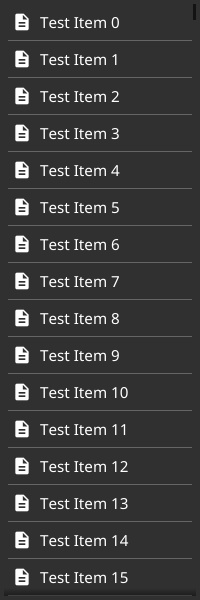
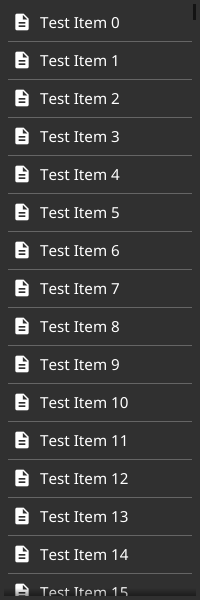
Fix list to use dividers the same way tree/table do.

Changed region(s): [[0.03, 0.06, 0.96, 1.0]]

diff --git a/widget/list.go b/widget/list.go
@@ -13,6 +13,8 @@ import (
 // ListItemID uniquely identifies an item within a list.
 type ListItemID = int
 
+const listDividerHeight = 1
+
 // Declare conformity with Widget interface.
 var _ fyne.Widget = (*List)(nil)
 
@@ -90,7 +92,7 @@ func (l *List) Select(id ListItemID) {
 	if l.scroller == nil {
 		return
 	}
-	y := id * l.itemMin.Height
+	y := (id * l.itemMin.Height) + (id * listDividerHeight)
 	if y < l.scroller.Offset.Y {
 		l.scroller.Offset.Y = y
 	} else if y+l.itemMin.Height > l.scroller.Offset.Y+l.scroller.Size().Height {
@@ -179,7 +181,7 @@ func (l *listRenderer) Layout(size fyne.Size) {
 	}
 
 	// Relayout What Is Visible - no scroll change - initial layout or possibly from a resize.
-	l.visibleItemCount = int(math.Ceil(float64(l.scroller.size.Height) / float64(l.list.itemMin.Height)))
+	l.visibleItemCount = int(math.Ceil(float64(l.scroller.size.Height) / float64(l.list.itemMin.Height+listDividerHeight)))
 	if l.visibleItemCount == 0 {
 		return
 	}
@@ -193,8 +195,9 @@ func (l *listRenderer) Layout(size fyne.Size) {
 	for i := len(l.children) + l.firstItemIndex; len(l.children) <= l.visibleItemCount && i < length; i++ {
 		l.appendItem(i)
 	}
-	l.layout.Objects = l.children
-	l.layout.Layout.Layout(l.layout.Objects, l.list.itemMin)
+	l.layout.Layout.(*listLayout).children = l.children
+	l.layout.Layout.Layout(l.children, l.list.itemMin)
+	l.layout.Objects = l.layout.Layout.(*listLayout).getObjects()
 	l.lastItemIndex = l.firstItemIndex + len(l.children) - 1
 
 	i := l.firstItemIndex
@@ -224,8 +227,9 @@ func (l *listRenderer) appendItem(id ListItemID) {
 	item := l.getItem()
 	l.children = append(l.children, item)
 	l.setupListItem(item, id)
-	l.layout.Objects = l.children
-	l.layout.Layout.(*listLayout).appendedItem(l.layout.Objects)
+	l.layout.Layout.(*listLayout).children = l.children
+	l.layout.Layout.(*listLayout).appendedItem(l.children)
+	l.layout.Objects = l.layout.Layout.(*listLayout).getObjects()
 }
 
 func (l *listRenderer) getItem() fyne.CanvasObject {
@@ -244,33 +248,32 @@ func (l *listRenderer) offsetChanged() {
 	if l.previousOffsetY < l.list.offsetY {
 		// Scrolling Down.
 		l.scrollDown(offsetChange)
-		return
-
 	} else if l.previousOffsetY > l.list.offsetY {
 		// Scrolling Up.
 		l.scrollUp(offsetChange)
-		return
 	}
+	l.layout.Layout.(*listLayout).updateDividers()
 }
 
 func (l *listRenderer) prependItem(id ListItemID) {
 	item := l.getItem()
 	l.children = append([]fyne.CanvasObject{item}, l.children...)
 	l.setupListItem(item, id)
-	l.layout.Objects = l.children
-	l.layout.Layout.(*listLayout).prependedItem(l.layout.Objects)
+	l.layout.Layout.(*listLayout).children = l.children
+	l.layout.Layout.(*listLayout).prependedItem(l.children)
+	l.layout.Objects = l.layout.Layout.(*listLayout).getObjects()
 }
 
 func (l *listRenderer) scrollDown(offsetChange int) {
 	itemChange := 0
-	layoutEndY := l.children[len(l.children)-1].Position().Y + l.list.itemMin.Height
+	layoutEndY := l.children[len(l.children)-1].Position().Y + l.list.itemMin.Height + listDividerHeight
 	scrollerEndY := l.scroller.Offset.Y + l.scroller.Size().Height
 	if layoutEndY < scrollerEndY {
-		itemChange = int(math.Ceil(float64(scrollerEndY-layoutEndY) / float64(l.list.itemMin.Height)))
-	} else if offsetChange < l.list.itemMin.Height {
+		itemChange = int(math.Ceil(float64(scrollerEndY-layoutEndY) / float64(l.list.itemMin.Height+listDividerHeight)))
+	} else if offsetChange < l.list.itemMin.Height+listDividerHeight {
 		return
 	} else {
-		itemChange = int(math.Floor(float64(offsetChange) / float64(l.list.itemMin.Height)))
+		itemChange = int(math.Floor(float64(offsetChange) / float64(l.list.itemMin.Height+listDividerHeight)))
 	}
 	l.previousOffsetY = l.list.offsetY
 	length := 0
@@ -293,11 +296,11 @@ func (l *listRenderer) scrollUp(offsetChange int) {
 	itemChange := 0
 	layoutStartY := l.children[0].Position().Y
 	if layoutStartY > l.scroller.Offset.Y {
-		itemChange = int(math.Ceil(float64(layoutStartY-l.scroller.Offset.Y) / float64(l.list.itemMin.Height)))
-	} else if offsetChange < l.list.itemMin.Height {
+		itemChange = int(math.Ceil(float64(layoutStartY-l.scroller.Offset.Y) / float64(l.list.itemMin.Height+listDividerHeight)))
+	} else if offsetChange < l.list.itemMin.Height+listDividerHeight {
 		return
 	} else {
-		itemChange = int(math.Floor(float64(offsetChange) / float64(l.list.itemMin.Height)))
+		itemChange = int(math.Floor(float64(offsetChange) / float64(l.list.itemMin.Height+listDividerHeight)))
 	}
 	l.previousOffsetY = l.list.offsetY
 	for i := 0; i < itemChange && l.firstItemIndex != 0; i++ {
@@ -340,7 +343,6 @@ type listItem struct {
 	onTapped          func()
 	statusIndicator   *canvas.Rectangle
 	child             fyne.CanvasObject
-	divider           *Separator
 	hovered, selected bool
 }
 
@@ -359,9 +361,8 @@ func (li *listItem) CreateRenderer() fyne.WidgetRenderer {
 	li.ExtendBaseWidget(li)
 
 	li.statusIndicator = canvas.NewRectangle(theme.BackgroundColor())
-	li.divider = NewSeparator()
 
-	objects := []fyne.CanvasObject{li.statusIndicator, li.child, li.divider}
+	objects := []fyne.CanvasObject{li.statusIndicator, li.child}
 
 	return &listItemRenderer{widget.NewBaseRenderer(objects), li}
 }
@@ -424,10 +425,6 @@ func (li *listItemRenderer) Layout(size fyne.Size) {
 
 	li.item.child.Move(fyne.NewPos(theme.Padding()*2, theme.Padding()))
 	li.item.child.Resize(fyne.NewSize(size.Width-theme.Padding()*3, size.Height-theme.Padding()*2))
-
-	li.item.divider.Move(fyne.NewPos(theme.Padding(), size.Height-1))
-	s = fyne.NewSize(size.Width-theme.Padding()*2, 1)
-	li.item.divider.Resize(s)
 }
 
 func (li *listItemRenderer) Refresh() {
@@ -446,6 +443,8 @@ var _ fyne.Layout = (*listLayout)(nil)
 
 type listLayout struct {
 	list       *List
+	dividers   []fyne.CanvasObject
+	children   []fyne.CanvasObject
 	layoutEndY int
 }
 
@@ -458,25 +457,32 @@ func (l *listLayout) Layout(objects []fyne.CanvasObject, size fyne.Size) {
 		return
 	}
 	y := 0
-	for _, child := range objects {
+	for _, child := range l.children {
 		child.Move(fyne.NewPos(0, y))
-		y += l.list.itemMin.Height
+		y += l.list.itemMin.Height + listDividerHeight
 		child.Resize(fyne.NewSize(l.list.size.Width, l.list.itemMin.Height))
 	}
 	l.layoutEndY = y
+	l.updateDividers()
 }
 
 func (l *listLayout) MinSize(objects []fyne.CanvasObject) fyne.Size {
 	if f := l.list.Length; f != nil {
 		return fyne.NewSize(l.list.itemMin.Width,
-			l.list.itemMin.Height*f())
+			l.list.itemMin.Height*f()+(f()-1)*listDividerHeight)
 	}
 	return fyne.NewSize(0, 0)
 }
 
+func (l *listLayout) getObjects() []fyne.CanvasObject {
+	objects := l.children
+	objects = append(objects, l.dividers...)
+	return objects
+}
+
 func (l *listLayout) appendedItem(objects []fyne.CanvasObject) {
 	if len(objects) > 1 {
-		objects[len(objects)-1].Move(fyne.NewPos(0, objects[len(objects)-2].Position().Y+l.list.itemMin.Height))
+		objects[len(objects)-1].Move(fyne.NewPos(0, objects[len(objects)-2].Position().Y+l.list.itemMin.Height+listDividerHeight))
 	} else {
 		objects[len(objects)-1].Move(fyne.NewPos(0, 0))
 	}
@@ -486,4 +492,26 @@ func (l *listLayout) appendedItem(objects []fyne.CanvasObject) {
 func (l *listLayout) prependedItem(objects []fyne.CanvasObject) {
 	objects[0].Move(fyne.NewPos(0, objects[1].Position().Y-l.list.itemMin.Height))
 	objects[0].Resize(fyne.NewSize(l.list.size.Width, l.list.itemMin.Height))
+}
+
+func (l *listLayout) updateDividers() {
+	if len(l.children) > 1 {
+		if len(l.dividers) > len(l.children) {
+			l.dividers = l.dividers[:len(l.children)]
+		} else {
+			for i := len(l.dividers); i < len(l.children); i++ {
+				l.dividers = append(l.dividers, NewSeparator())
+			}
+		}
+	} else {
+		l.dividers = nil
+	}
+	for i, child := range l.children {
+		if i == 0 {
+			continue
+		}
+		l.dividers[i].Move(fyne.NewPos(theme.Padding(), child.Position().Y-listDividerHeight))
+		l.dividers[i].Resize(fyne.NewSize(l.list.Size().Width-(theme.Padding()*2), listDividerHeight))
+		l.dividers[i].Show()
+	}
 }
